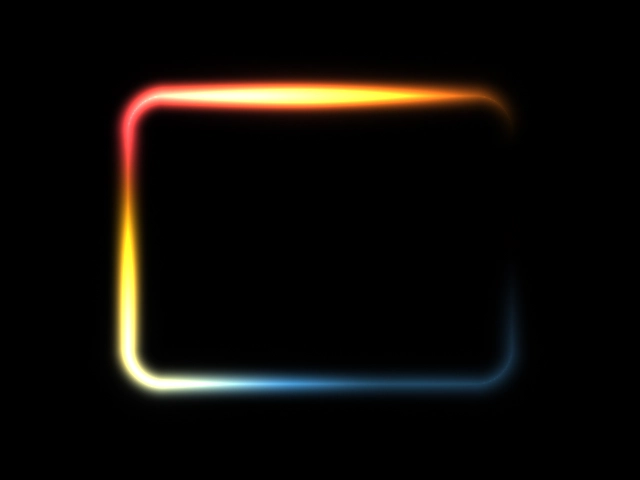
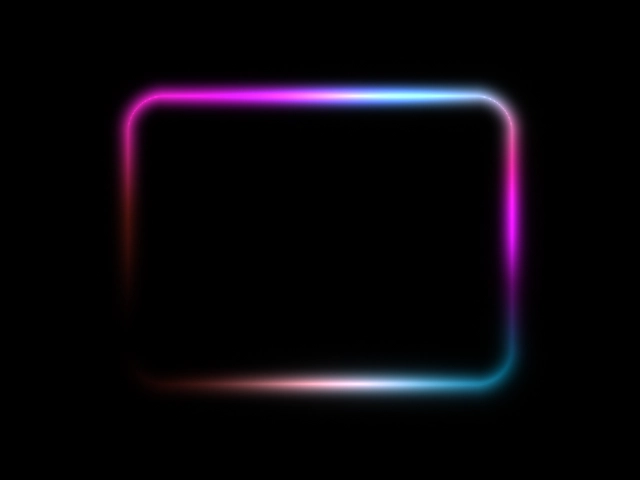
pulsing border tweaks

Changed region(s): [[0.1562, 0.1562, 0.8438, 0.8438]]

diff --git a/packages/shaders-react/src/shaders/pulsing-border.tsx b/packages/shaders-react/src/shaders/pulsing-border.tsx
@@ -24,7 +24,6 @@ export const defaultPreset: PulsingBorderPreset = {
     speed: 1,
     frame: 0,
     colorBack: '#000000',
-    // colors: ['#f22652', '#006fff', '#ff7300'],
     colors: ['#0dc1fd', '#d915ef', '#ff3f2ecc'],
     roundness: 0.25,
     thickness: 0.2,
@@ -39,29 +38,6 @@ export const defaultPreset: PulsingBorderPreset = {
   },
 };
 
-// export const defaultPreset: PulsingBorderPreset = {
-//   name: 'Default',
-//   params: {
-//     ...defaultObjectSizing,
-//     scale: 0.6,
-//     speed: 1,
-//     frame: 0,
-//     colorBack: '#000000',
-//     // colors: ['#f22652', '#006fff', '#ff7300'],
-//     colors: ['#ff7593cc', '#61a0ffcc', '#ff3f2ecc'],
-//     roundness: 0.25,
-//     thickness: 0.2,
-//     softness: 0.75,
-//     intensity: 0.2,
-//     bloom: 0.45,
-//     spots: 3,
-//     spotSize: 0.4,
-//     pulse: 0.5,
-//     smoke: 0.35,
-//     smokeSize: 0.6,
-//   },
-// };
-
 export const circlePreset: PulsingBorderPreset = {
   name: 'Circle',
   params: {
@@ -71,18 +47,18 @@ export const circlePreset: PulsingBorderPreset = {
     scale: 0.6,
     speed: 1,
     frame: 0,
-    colorBack: '#110222',
-    colors: ['#ffdd33', '#ff0000', '#00ffff'],
+    colorBack: '#000000',
+    colors: ['#0dc1fd', '#d915ef', '#ff3f2ecc'],
     roundness: 1,
-    thickness: 0.4,
-    softness: 1,
-    intensity: 0.8,
-    bloom: 0.8,
-    spots: 2,
-    spotSize: 0.45,
-    pulse: 0,
-    smoke: 0.25,
-    smokeSize: 0.62,
+    thickness: 0.05,
+    softness: 0.75,
+    intensity: 0.2,
+    bloom: 0.45,
+    spots: 3,
+    spotSize: 0.4,
+    pulse: 0.5,
+    smoke: 0.35,
+    smokeSize: 0.6,
   },
 };
 
@@ -113,18 +89,18 @@ export const solidLinePreset: PulsingBorderPreset = {
     ...defaultObjectSizing,
     speed: 1,
     frame: 0,
-    colors: ['#ffffff00', '#ff2486', '#00ffb3'],
+    colors: ['#ffade4', '#e13381', '#fa389f'],
     colorBack: '#00000000',
-    roundness: 0.1,
+    roundness: 0,
     thickness: 0.1,
     softness: 0.0,
     intensity: 0.0,
     bloom: 0.15,
     spots: 4,
-    spotSize: 0.28,
-    pulse: 0.0,
+    spotSize: 0.5,
+    pulse: 0,
     smoke: 0,
-    smokeSize: 0.63,
+    smokeSize: 0,
   },
 };
 

diff --git a/docs/src/app/home-shaders.ts b/docs/src/app/home-shaders.ts
@@ -204,7 +204,7 @@ export const homeShaders = [
     url: '/pulsing-border',
     ShaderComponent: PulsingBorder,
     image: pulsingBorderImg,
-    shaderConfig: { ...pulsingBorderPresets[0].params },
+    shaderConfig: { ...pulsingBorderPresets[0].params, frame: 4000 },
   },
   {
     name: 'metaballs',
